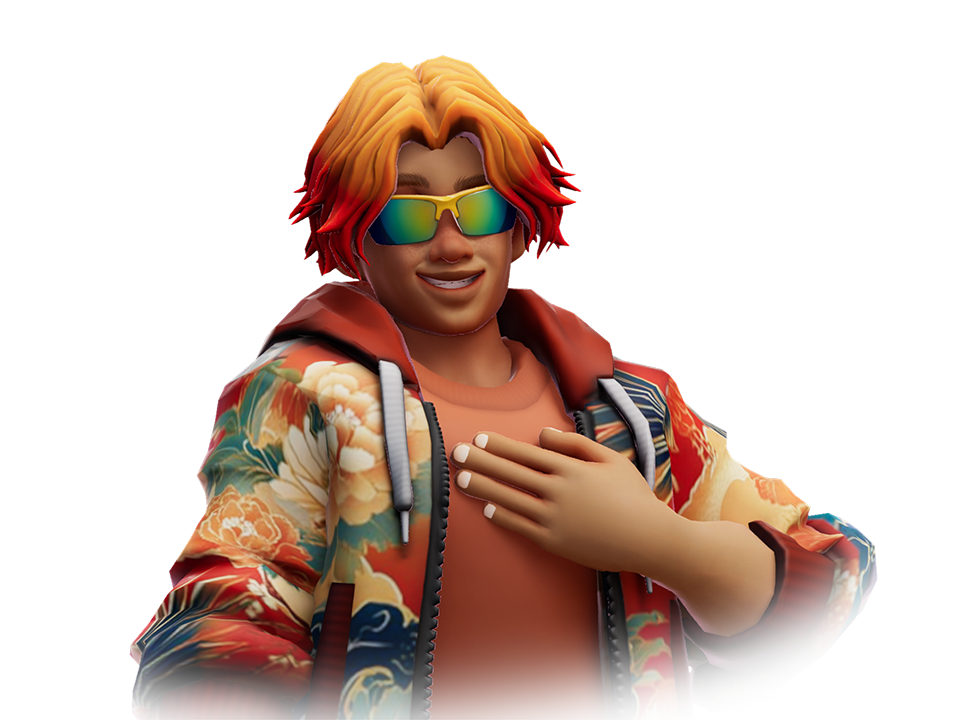
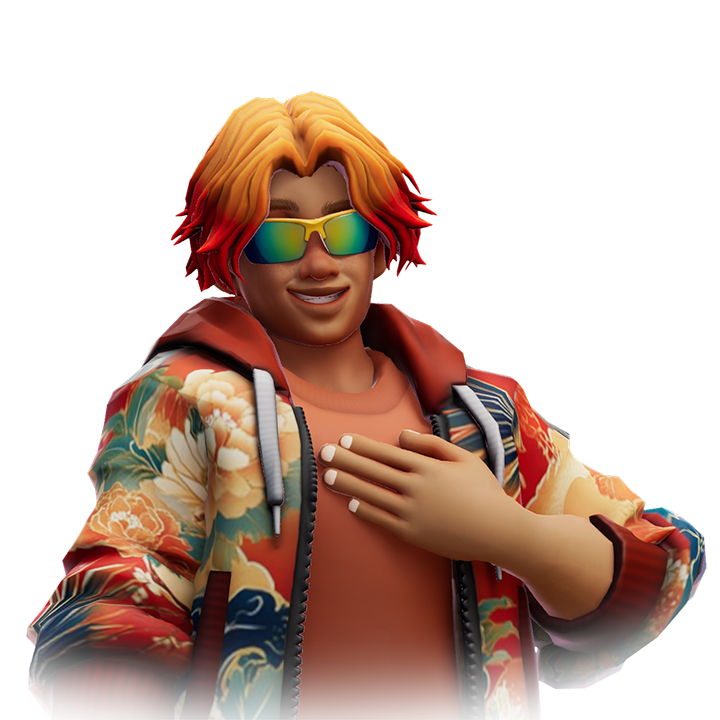
p

diff --git a/styles.css b/styles.css
@@ -103,7 +103,7 @@ body::after {
   z-index: 1;
   margin-top: 1.8rem;
   display: grid;
-  grid-template-columns: 0.9fr 1.1fr;
+  grid-template-columns: 0.82fr 1.18fr;
   align-items: center;
   gap: 1rem;
 }
@@ -132,7 +132,7 @@ body::after {
 .hero-copy h1 .title-gradient {
   display: block;
   position: relative;
-  font-size: 76px;
+  font-size: 72px;
   line-height: 1.12;
   padding: 0.08em 0.04em;
   margin: -0.08em -0.08em;
@@ -318,8 +318,8 @@ body::after {
   min-height: 620px;
   display: grid;
   place-items: center;
-  overflow: hidden;
-  padding: 28px 0 0;
+  overflow: visible;
+  padding: 0;
   isolation: isolate;
 }
 
@@ -338,26 +338,23 @@ body::after {
 .hero-carousel {
   position: relative;
   z-index: 2;
-  width: min(100%, 800px);
-  aspect-ratio: 4 / 3;
-  max-height: min(80vh, 600px);
-  display: grid;
-  place-items: center;
-  overflow: hidden;
+  width: min(100%, 860px);
+  display: block;
+  overflow: visible;
   margin-inline: auto;
 }
 
 .hero-slide {
-  grid-area: 1 / 1;
-  position: absolute;
-  inset: 0;
-  width: 100%;
-  height: 100%;
-  object-fit: contain;
-  object-position: center top;
+  display: block;
+  width: 120%;
+  height: auto;
   opacity: 0;
   transition: opacity 1s ease;
   pointer-events: none;
+  position: absolute;
+  top: 0;
+  left: 50%;
+  transform: translateX(-50%);
   -webkit-mask-image: linear-gradient(
     to bottom,
     rgba(0, 0, 0, 1) 0%,
@@ -375,12 +372,13 @@ body::after {
   filter:
     saturate(1.14)
     brightness(1.05)
-    drop-shadow(0 14px 28px rgba(12, 8, 33, 0.8))
-    drop-shadow(0 0 14px rgba(162, 104, 255, 0.5))
-    drop-shadow(0 0 22px rgba(98, 164, 255, 0.24));
+    drop-shadow(0 10px 20px rgba(12, 8, 33, 0.72))
+    drop-shadow(0 0 10px rgba(162, 104, 255, 0.4))
+    drop-shadow(0 0 16px rgba(98, 164, 255, 0.18));
 }
 
 .hero-slide.is-active {
+  position: relative;
   opacity: 1;
 }
 
@@ -468,6 +466,7 @@ body::after {
   color: #fff;
   opacity: 0;
   visibility: hidden;
+  display: none;
   pointer-events: none;
   font-family: "Roboto", sans-serif;
   transition: opacity 0.3s ease, visibility 0.3s ease;
@@ -555,11 +554,6 @@ body.show-loading-overlay .loading-overlay {
   pointer-events: auto;
 }
 
-body.show-loading-overlay #player-version {
-  opacity: 1;
-  visibility: visible;
-}
-
 body.enter-unity .landing-shell,
 body.enter-unity #player-version {
   pointer-events: none;
@@ -591,7 +585,7 @@ body.unity-visible #container {
   -webkit-clip-path: none;
 }
 
-@media (max-width: 1000px) {
+@media (max-width: 800px) {
   .landing {
     padding: 1rem 1rem 1.4rem;
   }
@@ -653,20 +647,17 @@ body.unity-visible #container {
   .hero-visual {
     min-height: 380px;
     justify-items: center;
-    padding-top: 18px;
+    align-items: start;
+    padding-top: 0;
+    width: calc(100% + 2rem);
+    margin-left: -1rem;
+    margin-right: -1rem;
   }
 
   .hero-carousel {
-    width: min(100%, 640px);
-    aspect-ratio: 4 / 3;
-    max-height: min(74vh, 480px);
-    display: grid;
+    width: 100%;
     margin-left: auto;
     margin-right: auto;
-  }
-
-  .hero-slide {
-    height: 100%;
   }
 
 }

diff --git a/index.html b/index.html
@@ -39,7 +39,7 @@
       <section class="hero">
         <section class="hero-copy">
           <h1>
-            <span class="title-main">Create Your Own</span>
+            <span class="title-main">Create Your</span>
             <span class="title-gradient" data-text="Unique Character">Unique Character</span>
           </h1>
           <p class="desc">
@@ -143,7 +143,6 @@
         revealFinalizeTimerId = window.setTimeout(function () {
           document.body.classList.add('unity-visible');
           landingShell.setAttribute('aria-hidden', 'true');
-          versionBadge.style.display = 'none';
         }, 1050);
         onResize();
       }
